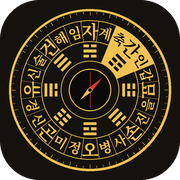
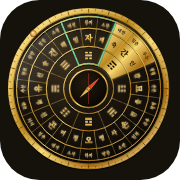
윤도를 금속 광택 황금 질감으로 다시 그림
Claude-Session: https://claude.ai/code/session_014bLc2cbGEDwUu7Vj8snKjz

diff --git a/index.html b/index.html
@@ -154,7 +154,7 @@ details summary{cursor:pointer;font-weight:700;color:var(--gold);padding:6px 0}
 <section class="view" id="v-day" hidden>
   <div class="bar"><button class="back" id="toWeek">‹ 주간 목록으로</button></div>
   <div class="hero" id="dayHero"></div>
-  <div class="panel"><h2>이날 어느 쪽으로 가면 좋은가</h2><div class="compass"><svg id="compassSvg" viewBox="0 0 340 340" role="img" aria-label="재물 방위 나침반"></svg></div><div class="grid" id="legend" style="margin-top:12px"></div></div>
+  <div class="panel"><h2>이날 어느 쪽으로 가면 좋은가</h2><div class="compass"><svg id="compassSvg" viewBox="0 0 345 345" role="img" aria-label="재물 방위 나침반"></svg></div><div class="grid" id="legend" style="margin-top:12px"></div></div>
   <div class="panel"><h2 id="whyTitle">이날 할 일과 피할 일</h2><div class="grid" id="todo"></div></div>
   <div class="panel"><h2>이날 재물운이 이렇게 나온 이유</h2><div class="why" id="dayWhy"></div></div>
   <button class="copy" id="copyBtn" style="margin-top:14px">이날 정보 복사하기</button>
@@ -315,47 +315,62 @@ function renderDay(){
   $('dayWhy').innerHTML=x.reasons.length?x.reasons.map(r=>`<div class="${r.w>0?'g':'b'}">${r.txt} <b>(${r.w>0?'+':''}${Math.round(r.w*10)/10})</b></div>`).join(''):'<div>이날은 내 사주와 특별히 맞물리는 것이 없어 재물운이 평범합니다.</div>';
 }
 function drawCompass(fixed,jaesin,huisin,x){
-  // 황금 윤도: 검은 옻칠 원판 위에 금색 동심원. 안쪽부터 팔괘 → 24방위 → 24절기 → 72분금 눈금.
+  // 황금 윤도: 검은 옻칠 원판 위에 금속 광택의 금 테·금 고리·돋을새김 글자. 안쪽부터 팔괘 → 24방위 → 24절기 → 72분금.
   const cx=170,cy=170; const pt=(a,r)=>{const t=(a-90)*Math.PI/180;return [cx+r*Math.cos(t),cy+r*Math.sin(t)];};
   const sector=(a0,a1,r0,r1)=>{const [ax,ay]=pt(a0,r1),[bx,by]=pt(a1,r1),[cx1,cy1]=pt(a1,r0),[dx,dy]=pt(a0,r0);return `M${ax},${ay} A${r1},${r1} 0 0 1 ${bx},${by} L${cx1},${cy1} A${r0},${r0} 0 0 0 ${dx},${dy} Z`;};
-  const G='#f0c251', G2='#c9972e', INK='#0b0a08', LAC='#15120e', RED='#e0392f';
+  const INK='#120d05', RED='#e0392f';
   const D24=['자','계','축','간','인','갑','묘','을','진','손','사','병','오','정','미','곤','신','경','유','신','술','건','해','임'];
   const JEOLGI=['동지','소한','대한','입춘','우수','경칩','춘분','청명','곡우','입하','소만','망종','하지','소서','대서','입추','처서','백로','추분','한로','상강','입동','소설','대설'];
-  const GUA=[[0,1,0],[1,0,0],[0,0,1],[0,1,1],[1,0,1],[0,0,0],[1,1,0],[1,1,1]]; // 감 간 진 손 리 곤 태 건 (후천팔괘, 북부터 시계방향) 1=양(한 줄) 0=음(끊긴 줄)
-  const R=166, rJeol=[126,150], r24=[88,124], rGua=[52,86], rWell=38;
-  let s=`<defs><radialGradient id="lac" cx="40%" cy="35%" r="80%"><stop offset="0" stop-color="#2a241c"/><stop offset="1" stop-color="${LAC}"/></radialGradient>
-    <linearGradient id="gold" x1="0" y1="0" x2="1" y2="1"><stop offset="0" stop-color="#fff0b8"/><stop offset=".5" stop-color="${G}"/><stop offset="1" stop-color="${G2}"/></linearGradient></defs>`;
-  s+=`<circle cx="${cx}" cy="${cy}" r="${R}" fill="url(#gold)"/><circle cx="${cx}" cy="${cy}" r="${R-5}" fill="url(#lac)" stroke="${G}" stroke-width="1"/>`;
-  // 72분금 눈금
-  for(let i=0;i<72;i++){const a=i*5; const [x1,y1]=pt(a,R-6),[x2,y2]=pt(a,i%3===0?R-14:R-10); s+=`<line x1="${x1}" y1="${y1}" x2="${x2}" y2="${y2}" stroke="${G}" stroke-width="${i%3===0?1.6:0.8}"/>`;}
-  // 강조 쐐기 (24방위 고리 + 절기 고리 걸쳐서)
-  const aJ=DIR_ANG[jaesin]; s+=`<path d="${sector(aJ-22.5,aJ+22.5,rGua[0],rJeol[1])}" fill="${G}" opacity=".95"/>`;
-  if(fixed!=='중앙'&&fixed!==jaesin){const aF=DIR_ANG[fixed]; s+=`<path d="${sector(aF-22.5,aF+22.5,rGua[0],rJeol[1])}" fill="none" stroke="#4fd1a8" stroke-width="3"/>`;}
+  const GUA=[[0,1,0],[1,0,0],[0,0,1],[0,1,1],[1,0,1],[0,0,0],[1,1,0],[1,1,1]];
+  const R=168, rJeol=[126,150], r24=[88,124], rGua=[52,86], rWell=38;
+  const gold='url(#gm)', goldT='url(#gt)';
+  let s=`<defs>
+    <linearGradient id="gm" x1="0" y1="0" x2="1" y2="1"><stop offset="0" stop-color="#fff6c8"/><stop offset=".18" stop-color="#f4d06a"/><stop offset=".42" stop-color="#b8841c"/><stop offset=".55" stop-color="#f7d873"/><stop offset=".75" stop-color="#a86f12"/><stop offset="1" stop-color="#fbe9a6"/></linearGradient>
+    <linearGradient id="gt" x1="0" y1="0" x2="0" y2="1"><stop offset="0" stop-color="#fff3c0"/><stop offset=".5" stop-color="#f0c251"/><stop offset="1" stop-color="#b07a14"/></linearGradient>
+    <radialGradient id="lac" cx="38%" cy="32%" r="85%"><stop offset="0" stop-color="#3a2f1e"/><stop offset=".45" stop-color="#1a140c"/><stop offset="1" stop-color="#070503"/></radialGradient>
+    <radialGradient id="well" cx="40%" cy="35%" r="80%"><stop offset="0" stop-color="#241b0e"/><stop offset="1" stop-color="#050302"/></radialGradient>
+    <linearGradient id="sheen" x1="0" y1="0" x2="1" y2="1"><stop offset="0" stop-color="#fff" stop-opacity=".22"/><stop offset=".5" stop-color="#fff" stop-opacity="0"/></linearGradient>
+    <filter id="emb" x="-20%" y="-20%" width="140%" height="140%"><feDropShadow dx="0" dy="1" stdDeviation=".5" flood-color="#000" flood-opacity=".9"/><feDropShadow dx="0" dy="-.5" stdDeviation=".3" flood-color="#fff8d0" flood-opacity=".5"/></filter>
+    <filter id="ring" x="-10%" y="-10%" width="120%" height="120%"><feDropShadow dx="0" dy="1.2" stdDeviation=".8" flood-color="#000" flood-opacity=".8"/></filter>
+    <filter id="glow" x="-20%" y="-20%" width="140%" height="140%"><feGaussianBlur stdDeviation="3" result="b"/><feMerge><feMergeNode in="b"/><feMergeNode in="SourceGraphic"/></feMerge></filter>
+  </defs>`;
+  // 금 테(두꺼운 금속 띠) + 옻칠 원판
+  s+=`<circle cx="${cx}" cy="${cy}" r="${R}" fill="#000" opacity=".6" transform="translate(0 3)"/>`;
+  s+=`<circle cx="${cx}" cy="${cy}" r="${R}" fill="${gold}"/><circle cx="${cx}" cy="${cy}" r="${R-3}" fill="none" stroke="#fff6c8" stroke-width=".8" opacity=".7"/><circle cx="${cx}" cy="${cy}" r="${R-11}" fill="none" stroke="#5a3d08" stroke-width="1"/>`;
+  s+=`<circle cx="${cx}" cy="${cy}" r="${R-12}" fill="url(#lac)"/>`;
+  // 72분금 눈금(금 테 위에 새김)
+  for(let i=0;i<72;i++){const a=i*5; const [x1,y1]=pt(a,R-1.5),[x2,y2]=pt(a,i%3===0?R-9.5:R-6); s+=`<line x1="${x1}" y1="${y1}" x2="${x2}" y2="${y2}" stroke="#4a3006" stroke-width="${i%3===0?1.4:0.8}"/>`;}
+  // 강조 쐐기: 광택 금
+  const aJ=DIR_ANG[jaesin]; s+=`<path d="${sector(aJ-22.5,aJ+22.5,rGua[0],rJeol[1])}" fill="${gold}" filter="url(#glow)"/><path d="${sector(aJ-22.5,aJ+22.5,rGua[0],rJeol[1])}" fill="url(#sheen)"/>`;
+  if(fixed!=='중앙'&&fixed!==jaesin){const aF=DIR_ANG[fixed]; s+=`<path d="${sector(aF-22.5,aF+22.5,rGua[0],rJeol[1])}" fill="none" stroke="#4fd1a8" stroke-width="3" filter="url(#ring)"/>`;}
   if(fixed==='중앙') s+=`<circle cx="${cx}" cy="${cy}" r="${rGua[0]-2}" fill="none" stroke="#4fd1a8" stroke-width="3"/>`;
-  // 고리 선
-  [rJeol[1],rJeol[0],r24[0],rGua[0]].forEach(r=>s+=`<circle cx="${cx}" cy="${cy}" r="${r}" fill="none" stroke="${G}" stroke-width="1.2"/>`);
+  // 고리 선(금속)
+  [rJeol[1],rJeol[0],r24[0],rGua[0]].forEach(r=>s+=`<circle cx="${cx}" cy="${cy}" r="${r}" fill="none" stroke="${gold}" stroke-width="2" filter="url(#ring)"/>`);
+  const inWedge=a=>Math.abs(((a-aJ)%360+540)%360-180)<=22.5;
   // 24절기 고리
-  for(let i=0;i<24;i++){const a=i*15; const [x1,y1]=pt(a-7.5,rJeol[0]),[x2,y2]=pt(a-7.5,rJeol[1]); s+=`<line x1="${x1}" y1="${y1}" x2="${x2}" y2="${y2}" stroke="${G}" stroke-width=".7"/>`;
-    const inJ=Math.abs(((a-aJ)%360+540)%360-180)<=22.5; const [tx,ty]=pt(a,(rJeol[0]+rJeol[1])/2);
-    s+=`<text x="${tx}" y="${ty}" transform="rotate(${a>90&&a<270?a+180:a} ${tx} ${ty})" text-anchor="middle" dominant-baseline="central" font-size="9" font-weight="700" fill="${inJ?INK:G}" font-family="var(--display)">${JEOLGI[i]}</text>`;}
+  for(let i=0;i<24;i++){const a=i*15; const [x1,y1]=pt(a-7.5,rJeol[0]),[x2,y2]=pt(a-7.5,rJeol[1]); s+=`<line x1="${x1}" y1="${y1}" x2="${x2}" y2="${y2}" stroke="${gold}" stroke-width=".8" opacity=".9"/>`;
+    const [tx,ty]=pt(a,(rJeol[0]+rJeol[1])/2); const rot=a>90&&a<270?a+180:a;
+    s+=`<text x="${tx}" y="${ty}" transform="rotate(${rot} ${tx} ${ty})" text-anchor="middle" dominant-baseline="central" font-size="9" font-weight="700" fill="${inWedge(a)?INK:goldT}" filter="${inWedge(a)?'':'url(#emb)'}" font-family="var(--display)">${JEOLGI[i]}</text>`;}
   // 24방위 고리
-  for(let i=0;i<24;i++){const a=i*15; const [x1,y1]=pt(a-7.5,r24[0]),[x2,y2]=pt(a-7.5,r24[1]); s+=`<line x1="${x1}" y1="${y1}" x2="${x2}" y2="${y2}" stroke="${G}" stroke-width=".9"/>`;
-    const inJ=Math.abs(((a-aJ)%360+540)%360-180)<=22.5; const main=a%45===0; const [tx,ty]=pt(a,(r24[0]+r24[1])/2);
-    s+=`<text x="${tx}" y="${ty}" transform="rotate(${a>90&&a<270?a+180:a} ${tx} ${ty})" text-anchor="middle" dominant-baseline="central" font-size="${main?17:12}" font-weight="800" fill="${inJ?INK:(main?'#fff0b8':G)}" font-family="var(--display)">${D24[i]}</text>`;}
-  // 팔괘 고리 (3줄 막대)
-  for(let i=0;i<8;i++){const a=i*45; const inJ=a===aJ; const col=inJ?INK:G; const [gx,gy]=pt(a,(rGua[0]+rGua[1])/2);
-    GUA[i].forEach((yang,k)=>{const off=(k-1)*6; const w=14,h=3; // k=0 바깥(위), k=2 안쪽
-      if(yang) s+=`<rect x="${-w/2}" y="${off-h/2}" width="${w}" height="${h}" fill="${col}" transform="translate(${gx} ${gy}) rotate(${a})"/>`;
-      else { s+=`<rect x="${-w/2}" y="${off-h/2}" width="${w/2-1.5}" height="${h}" fill="${col}" transform="translate(${gx} ${gy}) rotate(${a})"/><rect x="${1.5}" y="${off-h/2}" width="${w/2-1.5}" height="${h}" fill="${col}" transform="translate(${gx} ${gy}) rotate(${a})"/>`; }});
-    const [x1,y1]=pt(a-22.5,rGua[0]),[x2,y2]=pt(a-22.5,rGua[1]); s+=`<line x1="${x1}" y1="${y1}" x2="${x2}" y2="${y2}" stroke="${G}" stroke-width=".7"/>`;}
-  // 희신방 표시(주황 점, 절기 고리 바깥)
-  {const aH=DIR_ANG[huisin]; const [hx,hy]=pt(aH,R-10); s+=`<circle cx="${hx}" cy="${hy}" r="6" fill="#ffb454" stroke="${INK}" stroke-width="1"/>`;}
+  for(let i=0;i<24;i++){const a=i*15; const [x1,y1]=pt(a-7.5,r24[0]),[x2,y2]=pt(a-7.5,r24[1]); s+=`<line x1="${x1}" y1="${y1}" x2="${x2}" y2="${y2}" stroke="${gold}" stroke-width="1"/>`;
+    const main=a%45===0; const [tx,ty]=pt(a,(r24[0]+r24[1])/2); const rot=a>90&&a<270?a+180:a;
+    s+=`<text x="${tx}" y="${ty}" transform="rotate(${rot} ${tx} ${ty})" text-anchor="middle" dominant-baseline="central" font-size="${main?17:12}" font-weight="800" fill="${inWedge(a)?INK:goldT}" filter="${inWedge(a)?'':'url(#emb)'}" font-family="var(--display)">${D24[i]}</text>`;}
+  // 팔괘 고리
+  for(let i=0;i<8;i++){const a=i*45; const col=inWedge(a)&&a===aJ?INK:goldT; const [gx,gy]=pt(a,(rGua[0]+rGua[1])/2); const f=a===aJ?'':'filter="url(#emb)"';
+    GUA[i].forEach((yang,k)=>{const off=(k-1)*6; const w=14,h=3;
+      if(yang) s+=`<rect x="${-w/2}" y="${off-h/2}" width="${w}" height="${h}" rx=".8" fill="${col}" ${f} transform="translate(${gx} ${gy}) rotate(${a})"/>`;
+      else s+=`<rect x="${-w/2}" y="${off-h/2}" width="${w/2-1.5}" height="${h}" rx=".8" fill="${col}" ${f} transform="translate(${gx} ${gy}) rotate(${a})"/><rect x="1.5" y="${off-h/2}" width="${w/2-1.5}" height="${h}" rx=".8" fill="${col}" ${f} transform="translate(${gx} ${gy}) rotate(${a})"/>`;});
+    const [x1,y1]=pt(a-22.5,rGua[0]),[x2,y2]=pt(a-22.5,rGua[1]); s+=`<line x1="${x1}" y1="${y1}" x2="${x2}" y2="${y2}" stroke="${gold}" stroke-width=".8"/>`;}
+  // 희신방 표시(주황 구슬, 금 테 위)
+  {const aH=DIR_ANG[huisin]; const [hx,hy]=pt(aH,R-5.5); s+=`<circle cx="${hx}" cy="${hy}" r="6" fill="#ffb454" stroke="#7a3d00" stroke-width="1" filter="url(#ring)"/><circle cx="${hx-1.5}" cy="${hy-1.5}" r="2" fill="#fff" opacity=".7"/>`;}
   // 중앙 우물과 자침
-  s+=`<circle cx="${cx}" cy="${cy}" r="${rWell}" fill="${INK}" stroke="${G}" stroke-width="2"/>`;
+  s+=`<circle cx="${cx}" cy="${cy}" r="${rWell+3}" fill="${gold}" filter="url(#ring)"/><circle cx="${cx}" cy="${cy}" r="${rWell}" fill="url(#well)"/>`;
   {const [nx,ny]=pt(0,rWell-6),[sx,sy]=pt(180,rWell-6); s+=`<line x1="${nx}" y1="${ny}" x2="${sx}" y2="${sy}" stroke="${RED}" stroke-width="1"/>`;}
   {const [tx,ty]=pt(aJ,rWell-7),[bx,by]=pt(aJ+180,rWell-12),[lx,ly]=pt(aJ+90,4),[rx,ry]=pt(aJ-90,4);
-    s+=`<polygon points="${tx},${ty} ${lx},${ly} ${bx},${by} ${rx},${ry}" fill="url(#gold)"/><polygon points="${tx},${ty} ${lx},${ly} ${cx},${cy} ${rx},${ry}" fill="${RED}" opacity=".9"/>`;}
-  s+=`<circle cx="${cx}" cy="${cy}" r="3.5" fill="${INK}" stroke="${G}" stroke-width="1.2"/>`;
+    s+=`<polygon points="${tx},${ty} ${lx},${ly} ${bx},${by} ${rx},${ry}" fill="${gold}" filter="url(#ring)"/><polygon points="${tx},${ty} ${lx},${ly} ${cx},${cy} ${rx},${ry}" fill="${RED}" opacity=".92"/>`;}
+  s+=`<circle cx="${cx}" cy="${cy}" r="4" fill="${gold}" stroke="#3a2504" stroke-width="1"/>`;
+  // 전체 광택: 왼쪽 위에서 비치는 빛
+  s+=`<ellipse cx="${cx-50}" cy="${cy-70}" rx="120" ry="60" fill="url(#sheen)" transform="rotate(-35 ${cx-50} ${cy-70})" pointer-events="none"/>`;
   $('compassSvg').innerHTML=s;
 }
 

diff --git a/sw.js b/sw.js
@@ -1,4 +1,4 @@
-const CACHE='jaemul-v2';
+const CACHE='jaemul-v3';
 const ASSETS=['./','./index.html','./manifest.webmanifest','./icons/icon-192.png','./icons/icon-512.png','./icons/icon-180.png'];
 self.addEventListener('install',e=>{e.waitUntil(caches.open(CACHE).then(c=>c.addAll(ASSETS)).then(()=>self.skipWaiting()));});
 self.addEventListener('activate',e=>{e.waitUntil(caches.keys().then(ks=>Promise.all(ks.filter(k=>k!==CACHE).map(k=>caches.delete(k)))).then(()=>self.clients.claim()));});
